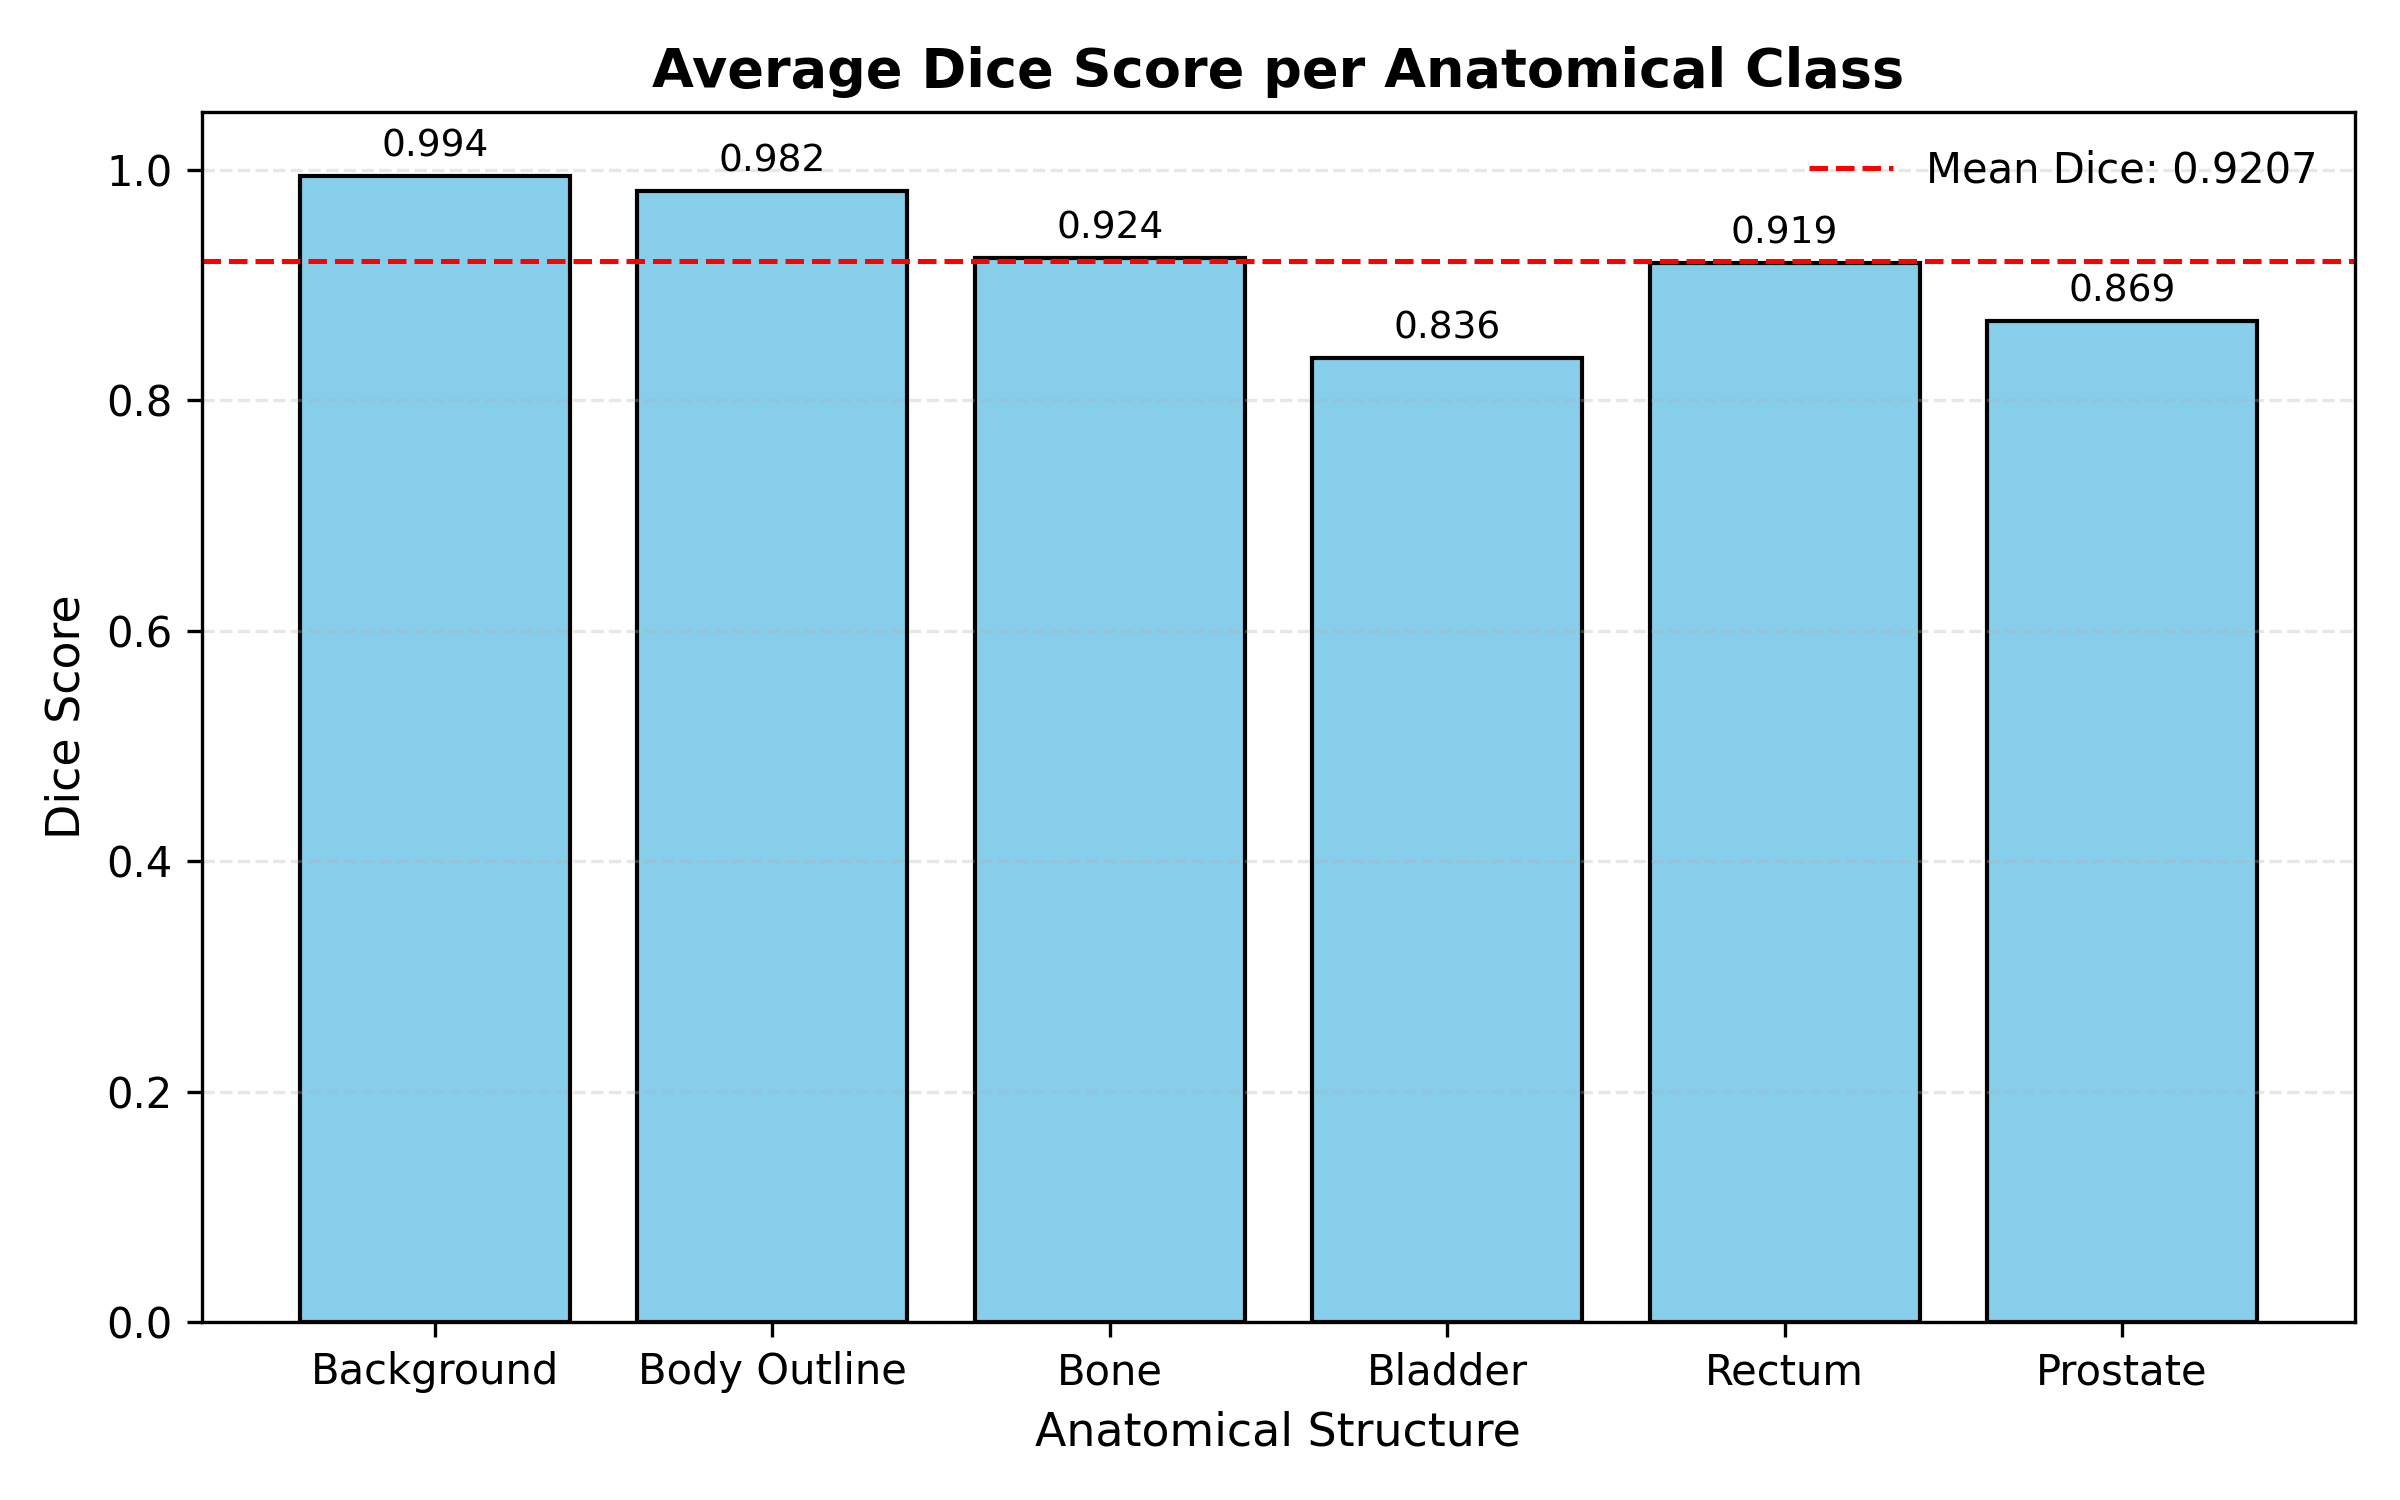
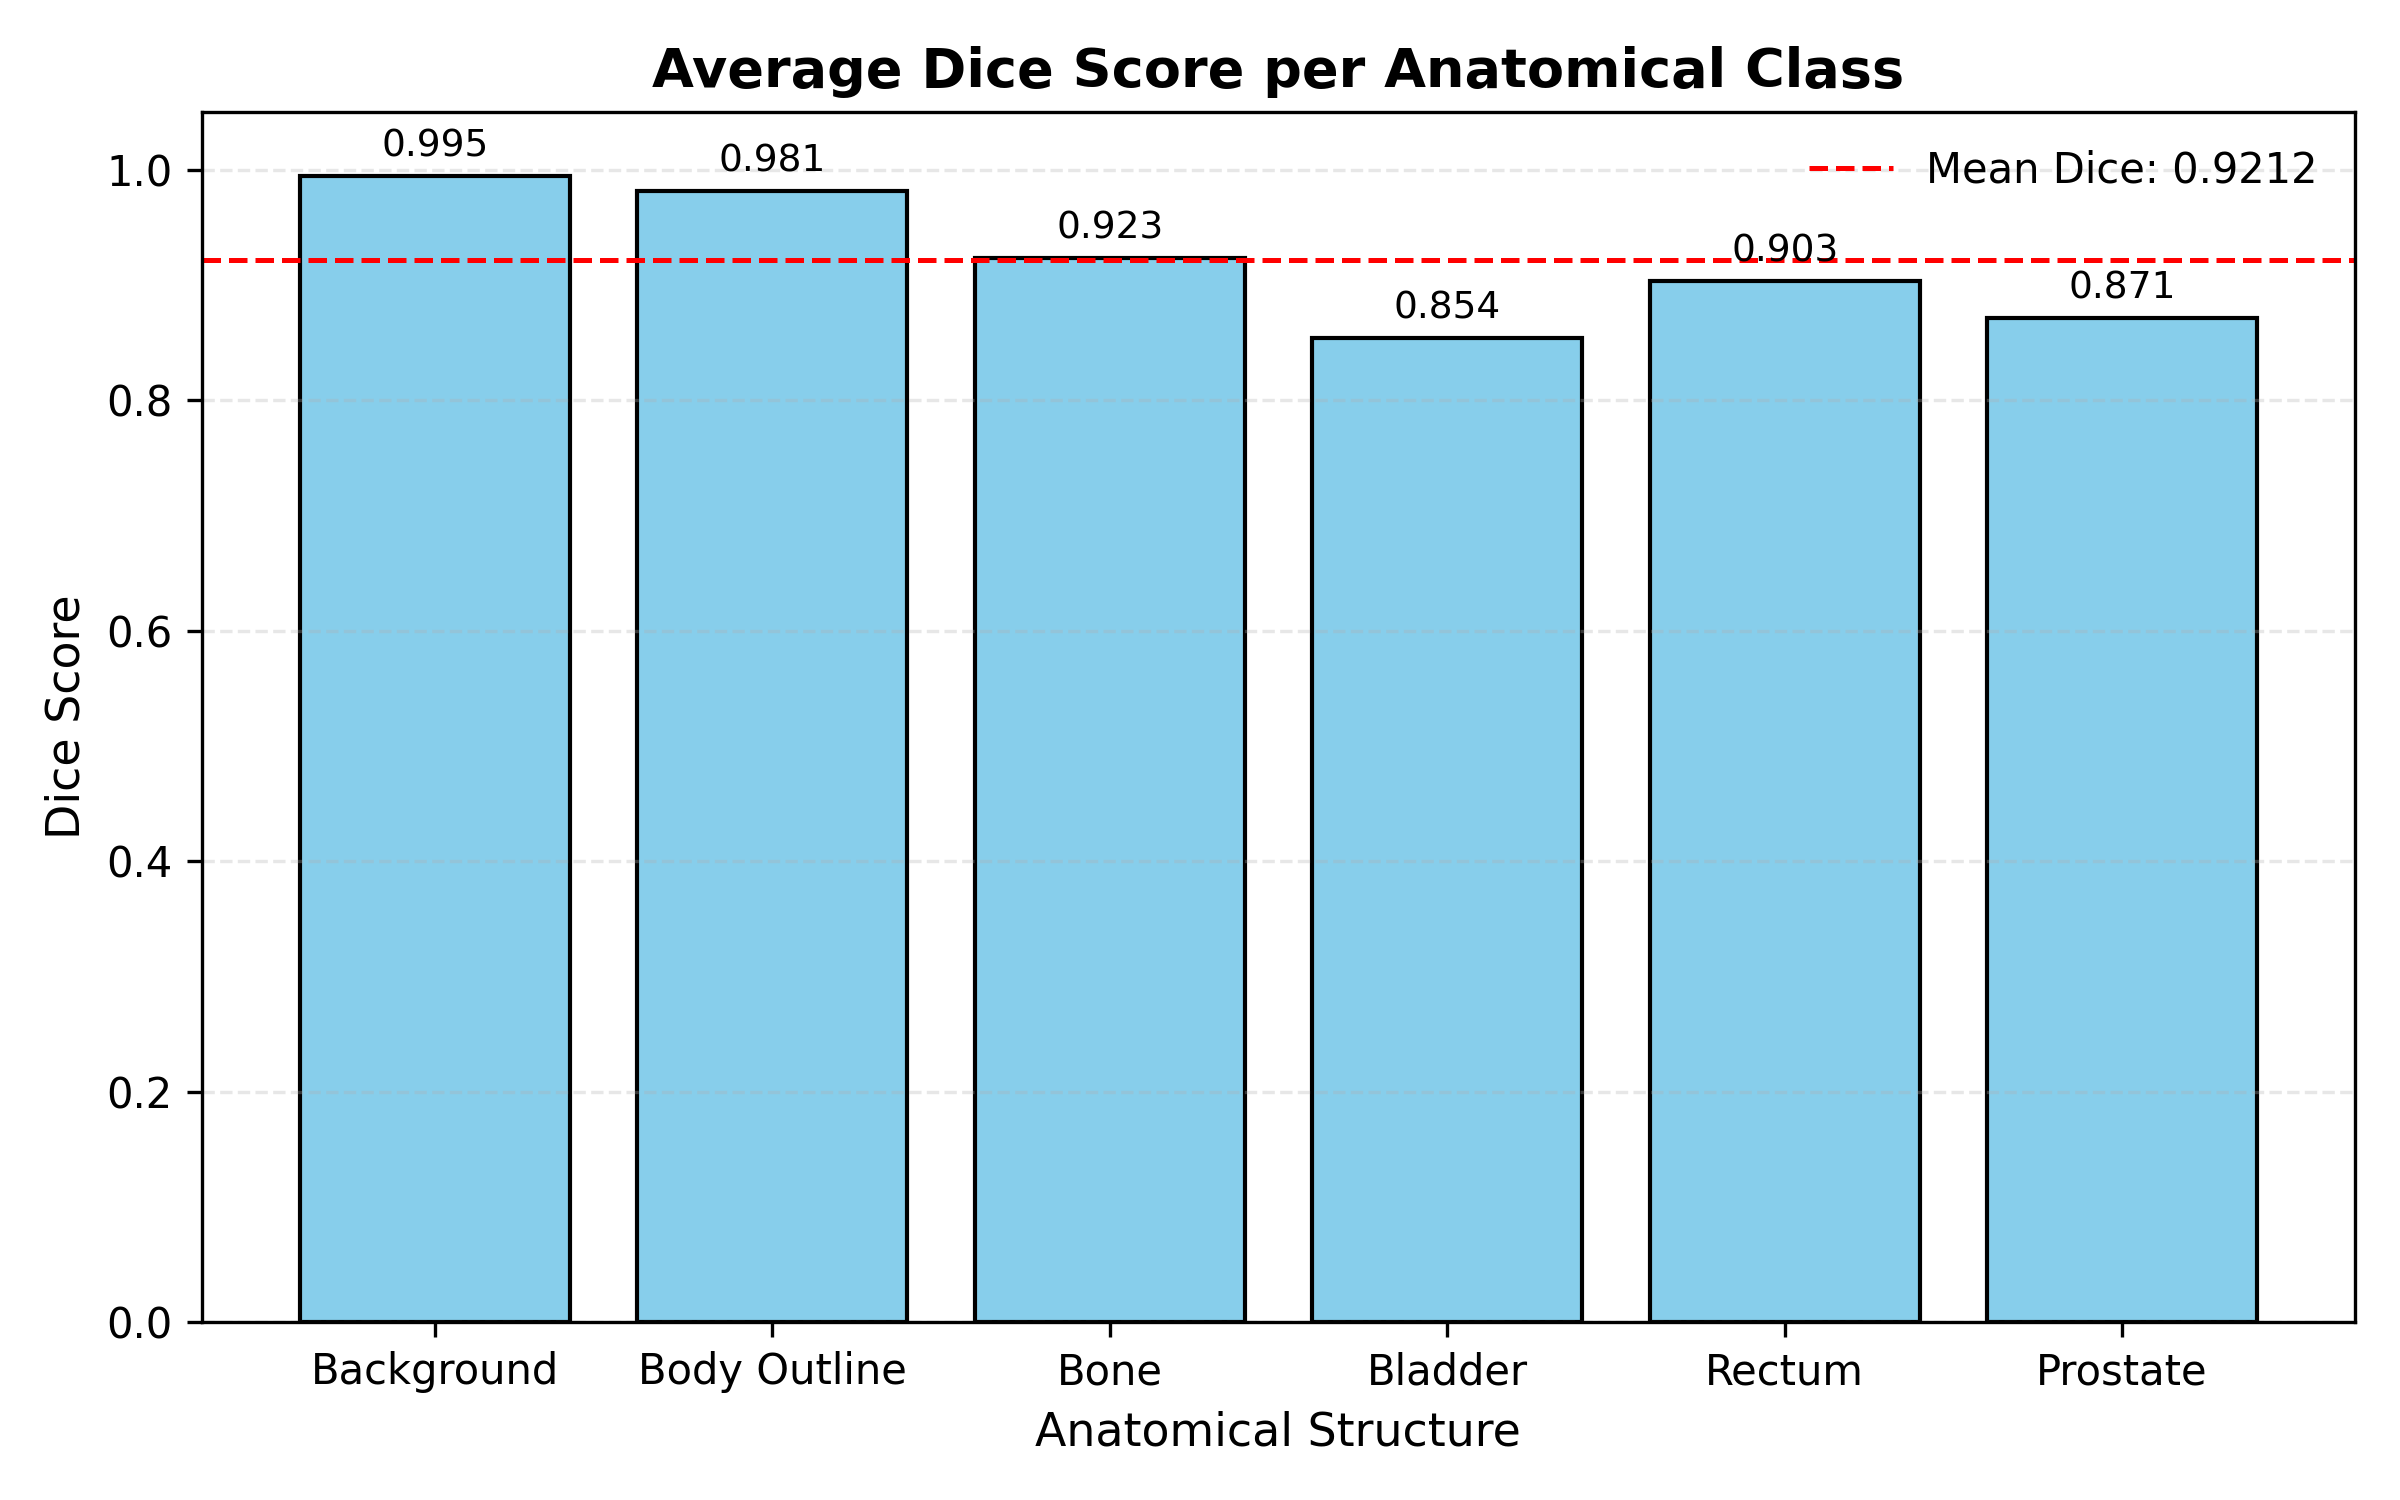
Reran model for more up-to-date figures and changed file path to better reflect conversion to 2D_improved_UNET file.

diff --git a/2D_Improved_UNET_47205145/train.py b/2D_Improved_UNET_47205145/train.py
@@ -141,7 +141,7 @@ def train():
         scheduler.step()
 
     # Save final model weights and training curve
-    torch.save(net.state_dict(), "model.pth")
+    torch.save(net.state_dict(), "2D_Improved_UNET_47205145/model.pth")
     loss_plot(history_train, history_val, smooth_window=3, save_path="2D_Improved_UNET_47205145/images/loss_curve.png")
 
 
